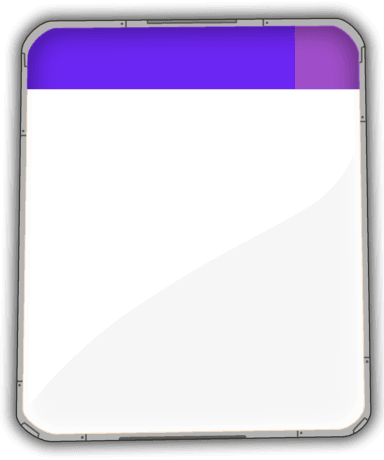
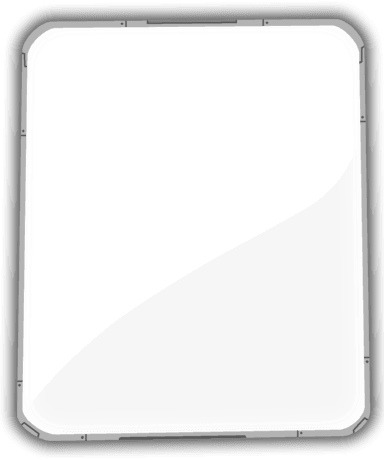
menus header

diff --git a/src/resources.ts b/src/resources.ts
@@ -7,8 +7,8 @@
     tut_1_1_title: "The plus shape",
     tut_1_1_text: "flip the white squares to make \nthem color squares",
 
-    tut_1_2_title: "tiles always flip in a \"plus shape\" \nfrom the center",
-    tut_1_2_text: "Great",
+    tut_1_2_text: "tiles always flip in a \"plus shape\" \nfrom the center",
+    tut_1_2_title: "Great",
 
     tut_2_1_title: "Flip to build",
     tut_2_1_text: "to finish the board, you have to turn \nevery white block in color block",
@@ -86,11 +86,13 @@
     help_restart: "Are you lost?\nIn the pause menu you can restart!",
     help_skip: "Don't worry, you\ncan use parts\nto skip this board and move on!",
     help_time: "Don't worry, you\ncan use parts\nto get more time!",
-    help_touch:"Don't worry, you\ncan use parts\nto get more taps!",
+    help_touch: "Don't worry, you\ncan use parts\nto get more taps!",
+
     help_restart_bt: "Great!",
     help_cancel_bt: "Not now",
     help_time_bt: "More Time",
     help_touch_bt: "More Taps",
+
     skip: "Skip",
     time: "Touch",
     touch: "Time",
@@ -101,26 +103,31 @@
         score: "score",
         level: "level",
         options: "options",
+
         gameOver: "GAME OVER",
         pause: "paused",
         sound: "Sound",
         menu: "menu",
         leaderboards: "Leaderboards",
+
         reset: "Reset All Data",
         restore: "Restore",
         restoreWarning: "It will restore your purchases from store, Continue?",
         resetWarning: "Are you sure. All you progress will be lost",
         about: "About",
+
         aboutText: "Develop by",
         aboutURL: "www.dia-studio.com",
         tutorial: "Tutorial",
         shop: "shop",
         playerName: "Player Name",
+
         playerNameDesc: "Type your name for the leaderboards.",
         error: "Sorry, Something went wrong",
         errorShop: "Sorry, Shop Not avaliable",
         errorAds: "Can't load Ads, try again",
         rating: "Rate us",
+
         ratingDesc: "Are you enjoying?\nPlease rate us",
         like: "Like us",
         share: "Share",
@@ -218,14 +225,15 @@ var stringResources_pt = {
 
     help_restart: "Se perdeu? No menu\n de pausa você, pode\nrecomeçar a tela!",
     help_skip: "Não esquenta, você\npode usar peças para\npular esta tela e\nseguir em frente!",
-    help_cancel_bt: "Agora não",
-    skip: "Pular",
-    help_restart_bt: "Ótimo!",
-     
-    help_time:  "Não esquenta, você\npode usar peças para\nganhar mais tempo!",
+    help_time: "Não esquenta, você\npode usar peças para\nganhar mais tempo!",
     help_touch: "Não esquenta, você\npode usar peças para\nganhar mais toques!",
+
+    help_restart_bt: "Ótimo!",
+    help_cancel_bt: "Agora não",
     help_time_bt: "Mais Tempo",
     help_touch_bt: "Mais Toques",
+
+    skip: "Pular",
     time: "Tempo",
     touch: "Toques",
 
@@ -235,27 +243,31 @@ var stringResources_pt = {
         score: "Pontos",
         level: "level",
         options: "opções",
-        highJelly: "maior",
+        
         gameOver: "GAME OVER",
         pause: "pausa",
         sound: "Sons",
         menu: "Menu",
         leaderboards: "Placar",
+
         reset: "Apagar tudo",
         restore: "Recuperar",
         restoreWarning: "Isso vai recuperar suas compras da loja, quer continuar?",
         resetWarning: "Você tem certeza? tudo que voce consquistou será perdido.",
         about: "Sobre",
+
         aboutText: "Desenvolvido por",
         aboutURL: "www.dia-studio.com",
         tutorial: "Tutorial",
         shop: "Compras",
         playerName: "Nome do Jogador",
+
         playerNameDesc: "Digite seu nome para aparecer no placar dos melhores",
         error: "Desculpe, algo deu errado.",
         errorShop: "A loja não está disponível.",
         errorAds: "Tente de novo",
         rating: "Avaliação",
+
         ratingDesc: "Está gostando? \nNos Ajude. Dê sua avaliação",
         like: "Curtir",
         share: "Compartilhar",

diff --git a/scripts/script.js b/scripts/script.js
@@ -3813,23 +3813,24 @@ var FlipPlus;
     (function (Menu) {
         var GenericMenu = (function (_super) {
             __extends(GenericMenu, _super);
-            function GenericMenu(title, previousScreen) {
+            function GenericMenu(title, previousScreen, color) {
                 _super.call(this);
                 this.originX = defaultWidth / 2;
                 this.originY = defaultHeight / 2;
                 this.content.set({ x: defaultWidth / 2, y: defaultHeight / 2 });
-                this.buildHeader(title, previousScreen);
+                this.buildHeader(title, previousScreen, color);
             }
             GenericMenu.prototype.activate = function (parameters) {
                 _super.prototype.activate.call(this, parameters);
                 this.animateIn(this.content);
             };
-            GenericMenu.prototype.buildHeader = function (title, previousScreen) {
+            GenericMenu.prototype.buildHeader = function (title, previousScreen, color) {
                 var _this = this;
                 // add bg
                 this.background.addChild(gameui.AssetsManager.getBitmap("mybotsbg").set({ y: -339, scaleY: 1.3310546875 }));
                 // add bg menu
                 this.content.addChild(gameui.AssetsManager.getBitmap("menu/menubg").set({ regX: 1536 / 2, regY: 1840 / 2 }));
+                this.content.addChild(gameui.AssetsManager.getBitmap(color || "menu/titlePurple").set({ regX: 1536 / 2, regY: 1840 / 2 }));
                 //Add Back Button
                 var backButton = new gameui.IconButton("menu/x", "", function () {
                     FlipPlus.FlipPlusGame.gameScreen.switchScreen(previousScreen);
@@ -6543,7 +6544,7 @@ var FlipPlus;
         var ShopMenu = (function (_super) {
             __extends(ShopMenu, _super);
             function ShopMenu(previousScreen) {
-                _super.call(this, "Shop", previousScreen);
+                _super.call(this, "Shop", previousScreen, "menu/titleRed");
                 this.productInfo = [
                     { name: "50", price: "U$ 0,99", img: "partsicon" },
                     { name: "200", price: "U$ 1,99", img: "partsicon" },
@@ -7723,8 +7724,8 @@ var stringResources = {
     it_text2: "alone = bad\nfriends=good",
     tut_1_1_title: "The plus shape",
     tut_1_1_text: "flip the white squares to make \nthem color squares",
-    tut_1_2_title: "tiles always flip in a \"plus shape\" \nfrom the center",
-    tut_1_2_text: "Great",
+    tut_1_2_text: "tiles always flip in a \"plus shape\" \nfrom the center",
+    tut_1_2_title: "Great",
     tut_2_1_title: "Flip to build",
     tut_2_1_text: "to finish the board, you have to turn \nevery white block in color block",
     tut_2_2_title: "Board complete!",
@@ -7887,13 +7888,13 @@ var stringResources_pt = {
     desc_item_solve: "Resolva este quadro",
     help_restart: "Se perdeu? No menu\n de pausa você, pode\nrecomeçar a tela!",
     help_skip: "Não esquenta, você\npode usar peças para\npular esta tela e\nseguir em frente!",
-    help_cancel_bt: "Agora não",
-    skip: "Pular",
-    help_restart_bt: "Ótimo!",
     help_time: "Não esquenta, você\npode usar peças para\nganhar mais tempo!",
     help_touch: "Não esquenta, você\npode usar peças para\nganhar mais toques!",
+    help_restart_bt: "Ótimo!",
+    help_cancel_bt: "Agora não",
     help_time_bt: "Mais Tempo",
     help_touch_bt: "Mais Toques",
+    skip: "Pular",
     time: "Tempo",
     touch: "Toques",
     menus: {
@@ -7902,7 +7903,6 @@ var stringResources_pt = {
         score: "Pontos",
         level: "level",
         options: "opções",
-        highJelly: "maior",
         gameOver: "GAME OVER",
         pause: "pausa",
         sound: "Sons",

diff --git a/src/Menu/GenericMenu.ts b/src/Menu/GenericMenu.ts
@@ -4,7 +4,7 @@
         protected originX:number;
         protected originY:number;
 
-        constructor(title: string, previousScreen: gameui.ScreenState) {
+        constructor(title: string, previousScreen: gameui.ScreenState, color?: string) {
             super();
          
             this.originX = defaultWidth / 2;
@@ -12,7 +12,7 @@
                            
             this.content.set({ x: defaultWidth / 2, y: defaultHeight / 2 })
             
-            this.buildHeader(title, previousScreen);
+            this.buildHeader(title, previousScreen,color);
         }
 
         public activate(parameters:any) {
@@ -20,11 +20,12 @@
             this.animateIn(this.content);
         }
 
-        private buildHeader(title, previousScreen) {
+        private buildHeader(title, previousScreen, color?:string) {
             // add bg
             this.background.addChild(gameui.AssetsManager.getBitmap("mybotsbg").set({ y: -339, scaleY: 1.3310546875 }));
             // add bg menu
             this.content.addChild(gameui.AssetsManager.getBitmap("menu/menubg").set({ regX: 1536 / 2, regY: 1840 / 2 }));
+            this.content.addChild(gameui.AssetsManager.getBitmap(color || "menu/titlePurple").set({ regX: 1536 / 2, regY: 1840 / 2 }));
       
             //Add Back Button
             var backButton = new gameui.IconButton("menu/x", "", () => {

diff --git a/assets/assetsManifest.js b/assets/assetsManifest.js
@@ -17,6 +17,8 @@
         { id: "menu/imrestart", src: "menu/imrestart.png" },
         { id: "menu/imskip", src: "menu/imskip.png" },
         { id: "menu/menubg", src: "menu/menubg.png" },
+        { id: "menu/titlePurple", src: "menu/titlePurple.png" },
+        { id: "menu/titleRed", src: "menu/titleRed.png" },
         { id: "menu/storeItem", src: "menu/storeItem.png" },
         { id: "menu/x", src: "menu/x.png" },
 

diff --git a/src/Menu/ShopMenu.ts b/src/Menu/ShopMenu.ts
@@ -16,7 +16,7 @@
         private productIdList = ["50", "200", "500", "100"];
 
         constructor(previousScreen: gameui.ScreenState) {
-            super("Shop", previousScreen);
+            super("Shop", previousScreen, "menu/titleRed");
 
             this.initializeScreen();
 
